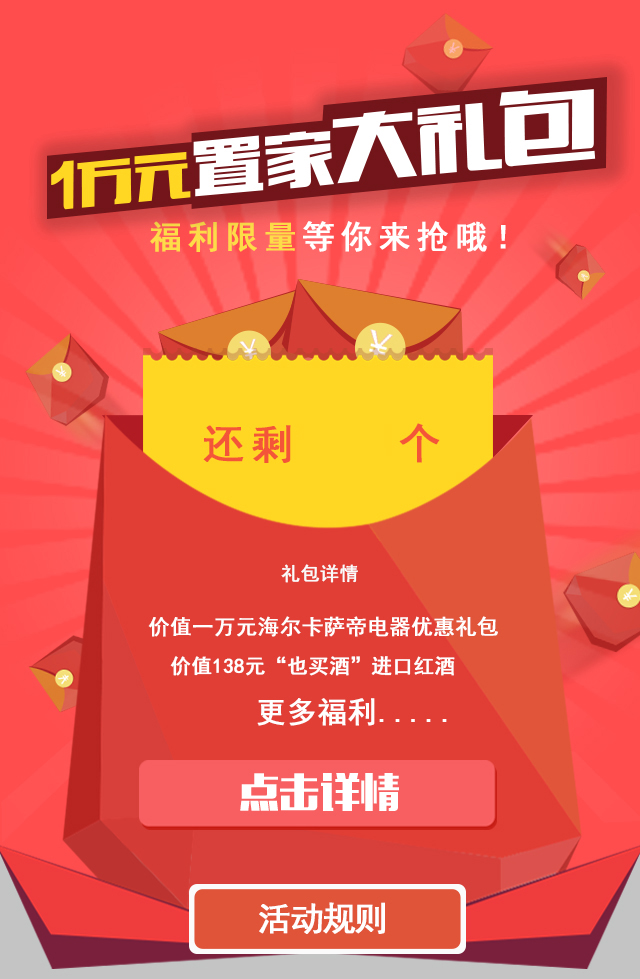
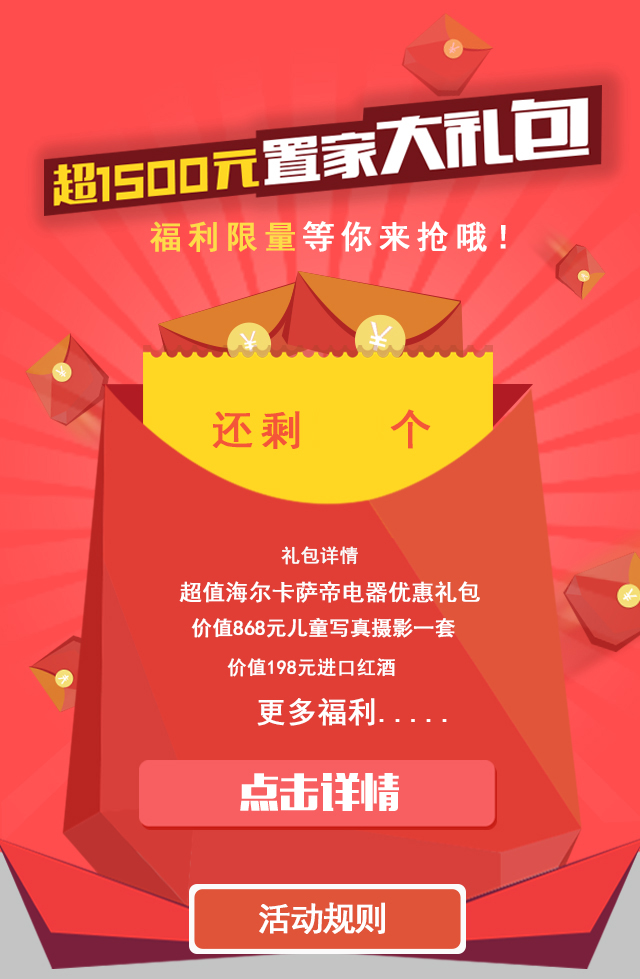
1、首页（activity.html）修改了图片里文字信息； 2、详情页（detail.html）修改了增加了详情图片，修改了部分文字； 3、增加了package.html，为activity.html中【点击详情】按钮跳转的页面; 4、支付成功页（success.html）修改了部分文字信息;
基本都是静态的改动

diff --git a/redBean/css/success02/index.css b/redBean/css/success02/index.css
@@ -1,14 +1,14 @@
 @CHARSET "UTF-8";
 .msg{background:url(../../images/success/success.png) 48px center no-repeat;height:40px;line-height:18px;padding:40px 0 40px 104px;}
-	.msg p{font-size:17px;font-weight:bold;margin-bottom:7px;letter-spacing:2px;color:#222;}
-	.msg span{color:#a9a9a9;font-size:10px;}
-	.msg span label{color:#ff4d4d;font-size:14px;font-weight:bold;}
-	.detail{box-sizing: border-box;display:block;width:100%;height:65px;line-height:63px;margin-top:13px;font-size:13px;color:#595959;text-decoration:none;padding-left:27px;background:#f0eff5;}
-	ul.list{margin:10px 26px 0;}
-	ul.list li{border-bottom:solid 1px #dfdfdf;padding:8px 0;line-height:15px;color:#616161;font-size:10px;}
-	ul.list li label{color:#ec7373;}
-	.know{display:block;background:#d94543;color:#fff;height:38px;line-height:38px;font-size:18px;text-decoration:none;text-align:center;margin:18px 29px;letter-spacing:1px;}
-	
-	.shadow{width:100%;height:100%;z-index:900;position:absolute;top:0;left:0;}
-	.shadow-bg{width:100%;height:100%;background:#000;opacity:0.56;}
-	.share{background:url(../../images/success02/share.png) center center no-repeat;width:100%;height:100%;border-radius:5px;position:absolute;top:0;left:0;}
+.msg p{font-size:17px;font-weight:bold;margin-bottom:7px;letter-spacing:2px;color:#222;}
+.msg span{color:#a9a9a9;font-size:10px;}
+.msg span label{color:#ff4d4d;font-size:14px;font-weight:bold;}
+.detail{box-sizing: border-box;display:block;width:100%;height:65px;line-height:63px;margin-top:13px;font-size:13px;color:#595959;text-decoration:none;padding-left:27px;background:#f0eff5;}
+ul.list{margin:10px 26px 0;}
+ul.list li{border-bottom:solid 1px #dfdfdf;padding:8px 0;line-height:15px;color:#616161;font-size:10px;}
+ul.list li label{color:#ec7373;}
+.know{display:block;background:#d94543;color:#fff;height:38px;line-height:38px;font-size:18px;text-decoration:none;text-align:center;margin:18px 29px;letter-spacing:1px;}
+
+.shadow{width:100%;height:100%;z-index:900;position:absolute;top:0;left:0;}
+.shadow-bg{width:100%;height:100%;background:#000;opacity:0.56;}
+.share{background:url(../../images/success02/share.png) center center no-repeat;width:100%;height:100%;border-radius:5px;position:absolute;top:0;left:0;}

diff --git a/redBean/css/activity/index.css b/redBean/css/activity/index.css
@@ -2,11 +2,16 @@
 html{-webkit-text-size-adjust: 100%;width:100%;overflow:hidden;}
 body{position:relative;width:100%;background:#c3c4c4;overflow:hidden;min-width: 300px;max-width: 640px;margin:0 auto;}
 img{width:100%;}
-span.num{position:Absolute;z-index:900;display:block;width:30%;height:40px;top:22.3%;left:39%;text-align:Center;color:#d94d34;font-size:2.2em;font-weight:bold;}
+span.num{position:Absolute;z-index:900;display:block;width:30%;height:40px;top:21.8%;left:39%;text-align:Center;color:#d94d34;font-size:1.8em;font-weight:bold;}
 .activity02{margin-bottom:10px;}
-.link{position:absolute;top:66%;width:100%;height:7%;padding:0 22%;box-sizing: border-box;}
+.link{display:block;position:absolute;top:39%;width:100%;height:7%;padding:0 22%;box-sizing: border-box;}
 /*iphone4判断*/
 @media(device-height:480px) and (-webkit-min-device-pixel-ratio:2){
-	span.num{top:22%;}
-	.link{top:79%;}
+	span.num{top:21.8%;}
+	.link{top:39%;}
 }
+
+.shadow{width:100%;z-index:910;position:absolute;top:0;left:0;}
+.shadow-bg{width:100%;height:100%;background:#000;opacity:0.56;}
+.share{background:url(../../images/success02/share.png) center center no-repeat;width:100%;height:100%;border-radius:5px;position:absolute;top:0;left:0;}
+.close{position:absolute;top:-4px;right:5px;font-size:30px;color:#fff;text-decoration:none;}

diff --git a/redBean/page/activity.html b/redBean/page/activity.html
@@ -3,21 +3,15 @@
 <head>
 <meta http-equiv="Content-Type" content="text/html; charset=UTF-8">
 <meta name="viewport" content="width=device-width, initial-scale=1.0, maximum-scale=1.0, user-scalable=0">
-<meta name="apple-mobile-web-app-capable" content="yes">
-<meta name="apple-mobile-web-app-status-bar-style" content="black">
-<meta name="format-detection" content="telephone=no">
-<meta http-equiv="Expires" content="-1">
-<meta http-equiv="Cache-Control" content="no-cache">
-<meta http-equiv="Pragma" content="no-cache">
 <title>支付订单</title>
 <link rel="stylesheet" type="text/css" href="../css/common.css"/>
 <link rel="stylesheet" type="text/css" href="../css/activity/index.css"/>
 <script type="text/javascript" src="../js/jquery-1.8.3.min.js"></script>
 </head>
-<body>
+<body>	
 	<img src="../images/activity/activity01.jpg"/>
 	<span class="num">200</span>
-	<a href="javascript:;" class="link"></a>
+	<a href="package.html" class="link"></a>
 	<img class="activity02" src="../images/activity/activity02.jpg"/>
 	<a href="javascript:;"><img src="../images/activity/buyNow.jpg"/></a>
 </body>

diff --git a/redBean/page/package.html b/redBean/page/package.html
@@ -1,0 +1,18 @@
+<!DOCTYPE html PUBLIC "-//W3C//DTD HTML 4.01 Transitional//EN" "http://www.w3.org/TR/html4/loose.dtd">
+<html>
+<head>
+<meta http-equiv="Content-Type" content="text/html; charset=UTF-8">
+<meta name="viewport" content="width=device-width, initial-scale=1.0, maximum-scale=1.0, user-scalable=0">
+<meta name="apple-mobile-web-app-capable" content="yes">
+<meta name="apple-mobile-web-app-status-bar-style" content="black">
+<title>支付订单</title>
+<link rel="stylesheet" type="text/css" href="../css/common.css"/>
+<link rel="stylesheet" type="text/css" href="../css/activity/index.css"/>
+<script type="text/javascript" src="../js/jquery-1.8.3.min.js"></script>
+</head>
+<body>
+	<img src="../images/package/package01.jpg"/>
+	<img src="../images/package/package02.jpg"/>
+	<a href="activity.html" class="close">×</a>
+</body>
+</html>

diff --git a/redBean/page/detail.html b/redBean/page/detail.html
@@ -12,11 +12,12 @@
 <body>
 	<div class="info">	
 		<p>通汇卡消费码：<label>5648793065</label></p>
-		<span>凭此消费码前往上海红星美凯龙真北路商场消费(充值后第三天即可消费)。</span>
+		<span>凭此消费码前往线下红星美凯龙门店消费</span>
 	</div>
 	<div class="address">
-		<span>消费门店地址:<br>上海真北路真北路1208号（近怒江北路）</span>				
+		<span>门店地址：红星美凯龙上海真北路1208号近怒江北路</span>				
 	</div>
-	<a href="javascript:;" class="detail">10000元置家大礼包订单详情</a>
+	<img src="../images/detail/detail01.jpg"/>
+	<img src="../images/detail/detail02.jpg"/>
 </body>
 </html>

diff --git a/redBean/page/success.html b/redBean/page/success.html
@@ -29,9 +29,9 @@
 		<p>恭喜你，支付成功！</p>
 		<span>通汇卡消费码：<label>5648793065</label></span>
 	</div>
-	<p class="detail">大礼包使用说明</p>
+	<p class="detail">通汇卡使用明细</p>
 	<ul class="list">
-		<li>凭此消费密码前往红星美凯龙消费：真北路1208号（近怒江北路）</li>
+		<li>凭此消费码前往红星美凯龙消费：真北路1208号（近怒江北路）</li>
 		<li>您可以在微信&nbsp;家居帮>入帮>我的红豆帮的><label>个人订单</label>查询</li>		
 	</ul>
 	<a class="know" href="javascript:;">知道了</a>

diff --git a/redBean/css/detail/index.css b/redBean/css/detail/index.css
@@ -4,5 +4,6 @@ div{box-sizing: border-box;}
 .info p{font-size:15px;font-weight:bold;line-height:28px;vertical-align:top;}
 .info p label{color:#ff4d4d;font-size:18px;position:relative;top:1px;}
 .info span{color:#7a7a7a;font-size:10px;}
-.address{padding:0 45px;margin-top:15px;color:#7a7a7a;}
+.address{padding:0 18px;margin-top:15px;color:#7a7a7a;margin-bottom:50px;}
 .detail{display:block;font-size:14px;background:#ff4d4d;color:#fff;margin:34px 11px 0;text-decoration:none;height:63px;line-height:63px;padding-left:33px;}
+img{width:100%;}

diff --git a/redBean/css/order.css b/redBean/css/order.css
@@ -16,5 +16,5 @@ table.table02 tr td input#number{font-size:1.4em;color:#141313;}
 table.table02 tr td input#total{font-size:1.7em;color:#d12734;}
 p.tips{margin-top:55px;color:#626262;font-size:1.2em;padding-left:13px;}
 p.tips a{text-decoration:none;color:#e82f3b;margin-left:4px;letter-spacing:1px;}
-.payWrap{margin:0 8px;margin-top:5px;}
+.payWrap{margin:0 8px;margin-top:10px;}
 input#pay{background:#65ad01;color:#fff;font-size:1.6em;border:none;height:40px;width:100%;}
